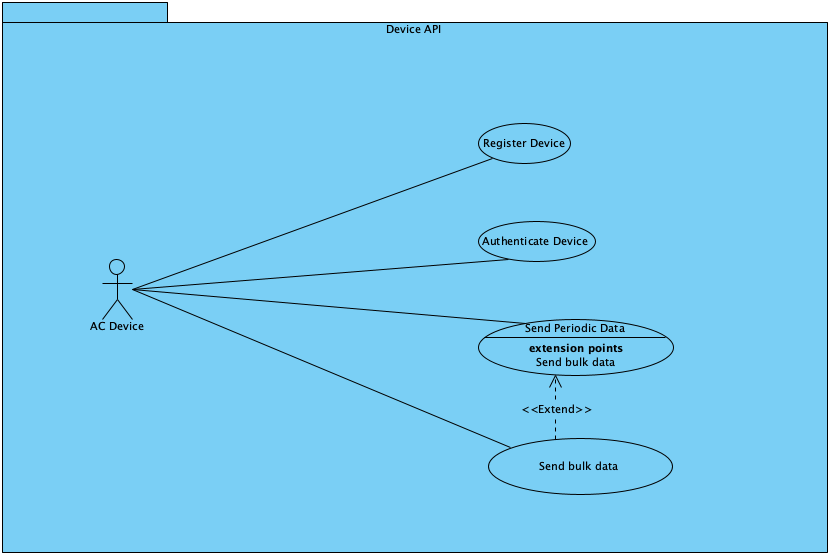
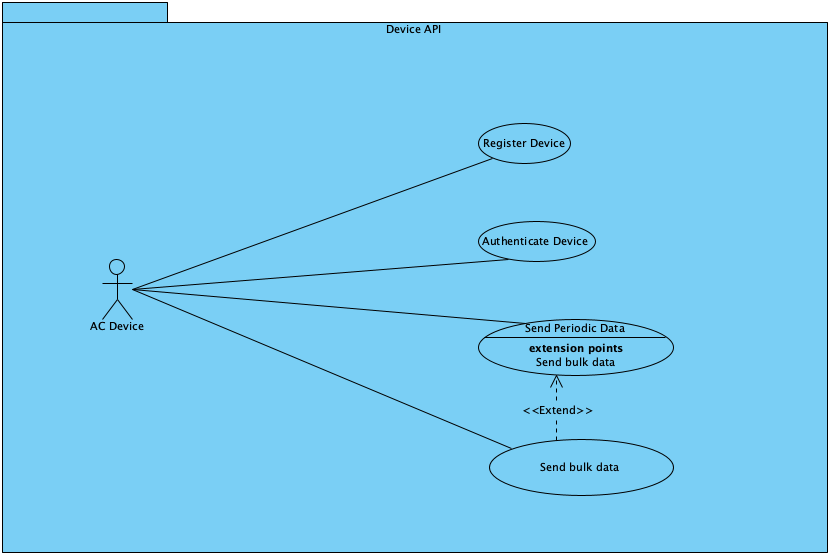
Updating docs and model with new information

diff --git a/design/content/UseCaseDiagram_H3cUJ_aGAqD2ZQj_.html b/design/content/UseCaseDiagram_H3cUJ_aGAqD2ZQj_.html
@@ -136,7 +136,7 @@
 <option value="shape|478.0|123.0|92.0|40.0|UseCase_a3uUJ_aGAqD2ZQkX.html|UseCase_a3uUJ_aGAqD2ZQkX.html|S3uUJ_aGAqD2ZQkW" id="optionS3uUJ_aGAqD2ZQkW">Register Device : Use Case</option>
 <option value="shape|478.0|221.0|117.0|40.0|UseCase_kpFUJ_aGAqD2ZQk2.html|UseCase_kpFUJ_aGAqD2ZQk2.html|EpFUJ_aGAqD2ZQk1" id="optionEpFUJ_aGAqD2ZQk1">Authenticate Device : Use Case</option>
 <option value="shape|478.0|319.0|195.0|56.0|UseCase_vdzUJ_aGAqD2ZQlL.html|UseCase_vdzUJ_aGAqD2ZQlL.html|PdzUJ_aGAqD2ZQlK" id="optionPdzUJ_aGAqD2ZQlK">Send Periodic Data : Use Case</option>
-<option value="shape|488.0|438.0|184.0|56.0|UseCase_b5HUJ_aGAqD2ZQld.html|UseCase_b5HUJ_aGAqD2ZQld.html|b5HUJ_aGAqD2ZQlc" id="optionb5HUJ_aGAqD2ZQlc">Send bulk data : Use Case</option>
+<option value="shape|489.0|439.0|184.0|56.0|UseCase_b5HUJ_aGAqD2ZQld.html|UseCase_b5HUJ_aGAqD2ZQld.html|b5HUJ_aGAqD2ZQlc" id="optionb5HUJ_aGAqD2ZQlc">Send bulk data : Use Case</option>
 </select>				</td>
 			</tr>
 		</table>
@@ -148,8 +148,8 @@
 <area imageId="diagram" coords="478.0, 155.55556, 132.0, 280.04233, 132.0, 295.4748, 499.22794, 163.0, 478.0, 163.0, 478.0, 155.55556" coords2="478.0, 155.55556, 132.0, 280.04233, 132.0, 295.4748, 499.22794, 163.0, 478.0, 163.0, 478.0, 155.55556" shape="poly" alt=":Association" id="areadiagram_map_OtZUJ_aGAqD2ZQkv_default" href="Association_AtZUJ_aGAqD2ZQko.html" onmouseover="hideReferenceIcon(),hideSubdiagramIcon(),hideTransitorIcon()" onmousedown="clearSpotLight();"/>
 <area imageId="diagram" coords="478.0, 254.96954, 132.0, 281.31473, 132.0, 281.31473, 132.0, 295.31473, 132.0, 295.31473, 517.0, 266.0, 517.0, 261.0, 478.0, 261.0, 478.0, 254.96954" coords2="478.0, 254.96954, 132.0, 281.31473, 132.0, 281.31473, 132.0, 295.31473, 132.0, 295.31473, 517.0, 266.0, 517.0, 261.0, 478.0, 261.0, 478.0, 254.96954" shape="poly" alt=":Association" id="areadiagram_map_mTfUJ_aGAqD2ZQmA_default" href="Association_STfUJ_aGAqD2ZQl7.html" onmouseover="hideReferenceIcon(),hideSubdiagramIcon(),hideTransitorIcon()" onmousedown="clearSpotLight();"/>
 <area imageId="diagram" coords="132.0, 282.74454, 132.0, 296.74454, 132.0, 296.74454, 478.0, 325.3674, 478.0, 325.3674, 478.0, 319.0, 534.0, 319.0, 534.0, 316.0, 132.0, 282.74454" coords2="132.0, 282.74454, 132.0, 296.74454, 132.0, 296.74454, 478.0, 325.3674, 478.0, 325.3674, 478.0, 319.0, 534.0, 319.0, 534.0, 316.0, 132.0, 282.74454" shape="poly" alt=":Association" id="areadiagram_map_BAA0J_aGAqD2ZQmI_default" href="Association_2AA0J_aGAqD2ZQmD.html" onmouseover="hideReferenceIcon(),hideSubdiagramIcon(),hideTransitorIcon()" onmousedown="clearSpotLight();"/>
-<area imageId="diagram" coords="132.0, 280.93436, 132.0, 296.0303, 132.0, 296.0303, 488.0, 445.26263, 488.0, 445.26263, 488.0, 438.0, 506.68674, 438.0, 132.0, 280.93436" coords2="132.0, 280.93436, 132.0, 296.0303, 132.0, 296.0303, 488.0, 445.26263, 488.0, 445.26263, 488.0, 438.0, 506.68674, 438.0, 132.0, 280.93436" shape="poly" alt=":Association" id="areadiagram_map_AIg0J_aGAqD2ZQmQ_default" href="Association_7wg0J_aGAqD2ZQmL.html" onmouseover="hideReferenceIcon(),hideSubdiagramIcon(),hideTransitorIcon()" onmousedown="clearSpotLight();"/>
-<area imageId="diagram" coords="548.0, 375.0, 548.0, 438.0, 562.0, 438.0, 562.0, 375.0" coords2="548.0, 375.0, 548.0, 438.0, 562.0, 438.0, 562.0, 375.0" shape="poly" alt=":Extend" id="areadiagram_map_ZUGaZ_aGAqD2ZQrE_default" href="Extend_BUGaZ_aGAqD2ZQrC.html" onmouseover="hideReferenceIcon(),hideSubdiagramIcon(),hideTransitorIcon()" onmousedown="clearSpotLight();"/>
+<area imageId="diagram" coords="132.0, 280.94458, 132.0, 296.04785, 489.0, 446.22165, 489.0, 446.22165, 489.0, 439.0, 507.73654, 439.0, 132.0, 280.94458" coords2="132.0, 280.94458, 132.0, 296.04785, 489.0, 446.22165, 489.0, 446.22165, 489.0, 439.0, 507.73654, 439.0, 132.0, 280.94458" shape="poly" alt=":Association" id="areadiagram_map_AIg0J_aGAqD2ZQmQ_default" href="Association_7wg0J_aGAqD2ZQmL.html" onmouseover="hideReferenceIcon(),hideSubdiagramIcon(),hideTransitorIcon()" onmousedown="clearSpotLight();"/>
+<area imageId="diagram" coords="549.0, 375.0, 549.0, 439.0, 563.0, 439.0, 563.0, 375.0" coords2="549.0, 375.0, 549.0, 439.0, 563.0, 439.0, 563.0, 375.0" shape="poly" alt=":Extend" id="areadiagram_map_ZUGaZ_aGAqD2ZQrE_default" href="Extend_BUGaZ_aGAqD2ZQrC.html" onmouseover="hideReferenceIcon(),hideSubdiagramIcon(),hideTransitorIcon()" onmousedown="clearSpotLight();"/>
 <area imageId="diagram" docContent="&amp;lt;head&amp;gt;
     
   &amp;lt;/head&amp;gt;
@@ -159,7 +159,14 @@
       connect to the device API. &amp;nbsp;Rather than 1 item in the call there could 
       be up to 500 (approx 8hours worth of data).
     &amp;lt;/p&amp;gt;
-  &amp;lt;/body&amp;gt;" coords="488, 438, 672, 494" coords2="488, 438, 672, 494" shape="rect" alt="Send bulk data:Use Case" id="areadiagram_map_b5HUJ_aGAqD2ZQlc_default" href="UseCase_b5HUJ_aGAqD2ZQld.html" onmouseover="hideReferenceIcon(),hideSubdiagramIcon(),hideTransitorIcon(),showTooltip(this)" onmousedown="clearSpotLight();" onmouseout="hideTooltip()"/>
+    &amp;lt;p style=&amp;quot;margin-bottom:.0001pt;margin-left:0pt;margin-top:0pt;margin-right:0pt;&amp;quot;&amp;gt;
+      &amp;nbsp;
+    &amp;lt;/p&amp;gt;
+    &amp;lt;p style=&amp;quot;margin-bottom:.0001pt;margin-left:0pt;margin-top:0pt;margin-right:0pt;&amp;quot;&amp;gt;
+      The array of data sent to for periodic updates will now include more 
+      than one entry
+    &amp;lt;/p&amp;gt;
+  &amp;lt;/body&amp;gt;" coords="489, 439, 673, 495" coords2="489, 439, 673, 495" shape="rect" alt="Send bulk data:Use Case" id="areadiagram_map_b5HUJ_aGAqD2ZQlc_default" href="UseCase_b5HUJ_aGAqD2ZQld.html" onmouseover="hideReferenceIcon(),hideSubdiagramIcon(),hideTransitorIcon(),showTooltip(this)" onmousedown="clearSpotLight();" onmouseout="hideTooltip()"/>
 <area imageId="diagram" docContent="&amp;lt;head&amp;gt;
     
   &amp;lt;/head&amp;gt;
@@ -167,6 +174,47 @@
     &amp;lt;p style=&amp;quot;margin-bottom:.0001pt;margin-left:0pt;margin-top:0pt;margin-right:0pt;&amp;quot;&amp;gt;
       The AC unit will make a HTTP call with the token it obtained from 
       authenticating.
+    &amp;lt;/p&amp;gt;
+    &amp;lt;p style=&amp;quot;margin-bottom:.0001pt;margin-left:0pt;margin-top:0pt;margin-right:0pt;&amp;quot;&amp;gt;
+      &amp;nbsp;
+    &amp;lt;/p&amp;gt;
+    &amp;lt;p style=&amp;quot;margin-bottom:.0001pt;margin-left:0pt;margin-top:0pt;margin-right:0pt;&amp;quot;&amp;gt;
+      The data contains the following
+    &amp;lt;/p&amp;gt;
+    &amp;lt;p style=&amp;quot;margin-bottom:.0001pt;margin-left:0pt;margin-top:0pt;margin-right:0pt;&amp;quot;&amp;gt;
+      &amp;nbsp;&amp;nbsp;- timestamp
+    &amp;lt;/p&amp;gt;
+    &amp;lt;p style=&amp;quot;margin-bottom:.0001pt;margin-left:0pt;margin-top:0pt;margin-right:0pt;&amp;quot;&amp;gt;
+      &amp;nbsp;&amp;nbsp;- temperature (celsius)
+    &amp;lt;/p&amp;gt;
+    &amp;lt;p style=&amp;quot;margin-bottom:.0001pt;margin-left:0pt;margin-top:0pt;margin-right:0pt;&amp;quot;&amp;gt;
+      &amp;nbsp;&amp;nbsp;- humidity
+    &amp;lt;/p&amp;gt;
+    &amp;lt;p style=&amp;quot;margin-bottom:.0001pt;margin-left:0pt;margin-top:0pt;margin-right:0pt;&amp;quot;&amp;gt;
+      &amp;nbsp;&amp;nbsp;- CO level
+    &amp;lt;/p&amp;gt;
+    &amp;lt;p style=&amp;quot;margin-bottom:.0001pt;margin-left:0pt;margin-top:0pt;margin-right:0pt;&amp;quot;&amp;gt;
+      &amp;nbsp;&amp;nbsp;- status
+    &amp;lt;/p&amp;gt;
+    &amp;lt;p style=&amp;quot;margin-bottom:.0001pt;margin-left:0pt;margin-top:0pt;margin-right:0pt;&amp;quot;&amp;gt;
+      &amp;nbsp;
+    &amp;lt;/p&amp;gt;
+    &amp;lt;p style=&amp;quot;margin-bottom:.0001pt;margin-left:0pt;margin-top:0pt;margin-right:0pt;&amp;quot;&amp;gt;
+      It was confirmed that the AC units have real time clocks hence the 
+      timestamp.
+    &amp;lt;/p&amp;gt;
+    &amp;lt;p style=&amp;quot;margin-bottom:.0001pt;margin-left:0pt;margin-top:0pt;margin-right:0pt;&amp;quot;&amp;gt;
+      &amp;nbsp;
+    &amp;lt;/p&amp;gt;
+    &amp;lt;p style=&amp;quot;margin-bottom:.0001pt;margin-left:0pt;margin-top:0pt;margin-right:0pt;&amp;quot;&amp;gt;
+      It's also expected that they will take a snapshot of data every 1 minute.
+    &amp;lt;/p&amp;gt;
+    &amp;lt;p style=&amp;quot;margin-bottom:.0001pt;margin-left:0pt;margin-top:0pt;margin-right:0pt;&amp;quot;&amp;gt;
+      &amp;nbsp;
+    &amp;lt;/p&amp;gt;
+    &amp;lt;p style=&amp;quot;margin-bottom:.0001pt;margin-left:0pt;margin-top:0pt;margin-right:0pt;&amp;quot;&amp;gt;
+      The data will be sent as an array of 1 element which then maintains 
+      consistency with the bulk upload
     &amp;lt;/p&amp;gt;
   &amp;lt;/body&amp;gt;" coords="478, 319, 673, 375" coords2="478, 319, 673, 375" shape="rect" alt="Send Periodic Data:Use Case" id="areadiagram_map_PdzUJ_aGAqD2ZQlK_default" href="UseCase_vdzUJ_aGAqD2ZQlL.html" onmouseover="hideReferenceIcon(),hideSubdiagramIcon(),hideTransitorIcon(),showTooltip(this)" onmousedown="clearSpotLight();" onmouseout="hideTooltip()"/>
 <area imageId="diagram" docContent="&amp;lt;head&amp;gt;
@@ -359,6 +407,47 @@
       The AC unit will make a HTTP call with the token it obtained from 
       authenticating.
     </p>
+    <p style="margin-bottom:.0001pt;margin-left:0pt;margin-top:0pt;margin-right:0pt;">
+      &nbsp;
+    </p>
+    <p style="margin-bottom:.0001pt;margin-left:0pt;margin-top:0pt;margin-right:0pt;">
+      The data contains the following
+    </p>
+    <p style="margin-bottom:.0001pt;margin-left:0pt;margin-top:0pt;margin-right:0pt;">
+      &nbsp;&nbsp;- timestamp
+    </p>
+    <p style="margin-bottom:.0001pt;margin-left:0pt;margin-top:0pt;margin-right:0pt;">
+      &nbsp;&nbsp;- temperature (celsius)
+    </p>
+    <p style="margin-bottom:.0001pt;margin-left:0pt;margin-top:0pt;margin-right:0pt;">
+      &nbsp;&nbsp;- humidity
+    </p>
+    <p style="margin-bottom:.0001pt;margin-left:0pt;margin-top:0pt;margin-right:0pt;">
+      &nbsp;&nbsp;- CO level
+    </p>
+    <p style="margin-bottom:.0001pt;margin-left:0pt;margin-top:0pt;margin-right:0pt;">
+      &nbsp;&nbsp;- status
+    </p>
+    <p style="margin-bottom:.0001pt;margin-left:0pt;margin-top:0pt;margin-right:0pt;">
+      &nbsp;
+    </p>
+    <p style="margin-bottom:.0001pt;margin-left:0pt;margin-top:0pt;margin-right:0pt;">
+      It was confirmed that the AC units have real time clocks hence the 
+      timestamp.
+    </p>
+    <p style="margin-bottom:.0001pt;margin-left:0pt;margin-top:0pt;margin-right:0pt;">
+      &nbsp;
+    </p>
+    <p style="margin-bottom:.0001pt;margin-left:0pt;margin-top:0pt;margin-right:0pt;">
+      It's also expected that they will take a snapshot of data every 1 minute.
+    </p>
+    <p style="margin-bottom:.0001pt;margin-left:0pt;margin-top:0pt;margin-right:0pt;">
+      &nbsp;
+    </p>
+    <p style="margin-bottom:.0001pt;margin-left:0pt;margin-top:0pt;margin-right:0pt;">
+      The data will be sent as an array of 1 element which then maintains 
+      consistency with the bulk upload
+    </p>
   </body></span>			</td>
 		</tr>
 		<tr class="TableRow2">
@@ -381,6 +470,13 @@
       Bulk data is simply accumulated from when the AC unit was unable to 
       connect to the device API. &nbsp;Rather than 1 item in the call there could 
       be up to 500 (approx 8hours worth of data).
+    </p>
+    <p style="margin-bottom:.0001pt;margin-left:0pt;margin-top:0pt;margin-right:0pt;">
+      &nbsp;
+    </p>
+    <p style="margin-bottom:.0001pt;margin-left:0pt;margin-top:0pt;margin-right:0pt;">
+      The array of data sent to for periodic updates will now include more 
+      than one entry
     </p>
   </body></span>			</td>
 		</tr>

diff --git a/design/content/Package_iGB0J_aGAqD2ZQnI.html b/design/content/Package_iGB0J_aGAqD2ZQnI.html
@@ -275,6 +275,47 @@ Children			</td>
       The AC unit will make a HTTP call with the token it obtained from 
       authenticating.
     </p>
+    <p style="margin-bottom:.0001pt;margin-left:0pt;margin-top:0pt;margin-right:0pt;">
+      &nbsp;
+    </p>
+    <p style="margin-bottom:.0001pt;margin-left:0pt;margin-top:0pt;margin-right:0pt;">
+      The data contains the following
+    </p>
+    <p style="margin-bottom:.0001pt;margin-left:0pt;margin-top:0pt;margin-right:0pt;">
+      &nbsp;&nbsp;- timestamp
+    </p>
+    <p style="margin-bottom:.0001pt;margin-left:0pt;margin-top:0pt;margin-right:0pt;">
+      &nbsp;&nbsp;- temperature (celsius)
+    </p>
+    <p style="margin-bottom:.0001pt;margin-left:0pt;margin-top:0pt;margin-right:0pt;">
+      &nbsp;&nbsp;- humidity
+    </p>
+    <p style="margin-bottom:.0001pt;margin-left:0pt;margin-top:0pt;margin-right:0pt;">
+      &nbsp;&nbsp;- CO level
+    </p>
+    <p style="margin-bottom:.0001pt;margin-left:0pt;margin-top:0pt;margin-right:0pt;">
+      &nbsp;&nbsp;- status
+    </p>
+    <p style="margin-bottom:.0001pt;margin-left:0pt;margin-top:0pt;margin-right:0pt;">
+      &nbsp;
+    </p>
+    <p style="margin-bottom:.0001pt;margin-left:0pt;margin-top:0pt;margin-right:0pt;">
+      It was confirmed that the AC units have real time clocks hence the 
+      timestamp.
+    </p>
+    <p style="margin-bottom:.0001pt;margin-left:0pt;margin-top:0pt;margin-right:0pt;">
+      &nbsp;
+    </p>
+    <p style="margin-bottom:.0001pt;margin-left:0pt;margin-top:0pt;margin-right:0pt;">
+      It's also expected that they will take a snapshot of data every 1 minute.
+    </p>
+    <p style="margin-bottom:.0001pt;margin-left:0pt;margin-top:0pt;margin-right:0pt;">
+      &nbsp;
+    </p>
+    <p style="margin-bottom:.0001pt;margin-left:0pt;margin-top:0pt;margin-right:0pt;">
+      The data will be sent as an array of 1 element which then maintains 
+      consistency with the bulk upload
+    </p>
   </body></span>			</td>
 		</tr>
 		<tr class="TableRow1">
@@ -297,6 +338,13 @@ Children			</td>
       Bulk data is simply accumulated from when the AC unit was unable to 
       connect to the device API. &nbsp;Rather than 1 item in the call there could 
       be up to 500 (approx 8hours worth of data).
+    </p>
+    <p style="margin-bottom:.0001pt;margin-left:0pt;margin-top:0pt;margin-right:0pt;">
+      &nbsp;
+    </p>
+    <p style="margin-bottom:.0001pt;margin-left:0pt;margin-top:0pt;margin-right:0pt;">
+      The array of data sent to for periodic updates will now include more 
+      than one entry
     </p>
   </body></span>			</td>
 		</tr>

diff --git a/design/content/UseCase_vdzUJ_aGAqD2ZQlL.html b/design/content/UseCase_vdzUJ_aGAqD2ZQlL.html
@@ -106,6 +106,47 @@ Properties			</td>
       The AC unit will make a HTTP call with the token it obtained from 
       authenticating.
     </p>
+    <p style="margin-bottom:.0001pt;margin-left:0pt;margin-top:0pt;margin-right:0pt;">
+      &nbsp;
+    </p>
+    <p style="margin-bottom:.0001pt;margin-left:0pt;margin-top:0pt;margin-right:0pt;">
+      The data contains the following
+    </p>
+    <p style="margin-bottom:.0001pt;margin-left:0pt;margin-top:0pt;margin-right:0pt;">
+      &nbsp;&nbsp;- timestamp
+    </p>
+    <p style="margin-bottom:.0001pt;margin-left:0pt;margin-top:0pt;margin-right:0pt;">
+      &nbsp;&nbsp;- temperature (celsius)
+    </p>
+    <p style="margin-bottom:.0001pt;margin-left:0pt;margin-top:0pt;margin-right:0pt;">
+      &nbsp;&nbsp;- humidity
+    </p>
+    <p style="margin-bottom:.0001pt;margin-left:0pt;margin-top:0pt;margin-right:0pt;">
+      &nbsp;&nbsp;- CO level
+    </p>
+    <p style="margin-bottom:.0001pt;margin-left:0pt;margin-top:0pt;margin-right:0pt;">
+      &nbsp;&nbsp;- status
+    </p>
+    <p style="margin-bottom:.0001pt;margin-left:0pt;margin-top:0pt;margin-right:0pt;">
+      &nbsp;
+    </p>
+    <p style="margin-bottom:.0001pt;margin-left:0pt;margin-top:0pt;margin-right:0pt;">
+      It was confirmed that the AC units have real time clocks hence the 
+      timestamp.
+    </p>
+    <p style="margin-bottom:.0001pt;margin-left:0pt;margin-top:0pt;margin-right:0pt;">
+      &nbsp;
+    </p>
+    <p style="margin-bottom:.0001pt;margin-left:0pt;margin-top:0pt;margin-right:0pt;">
+      It's also expected that they will take a snapshot of data every 1 minute.
+    </p>
+    <p style="margin-bottom:.0001pt;margin-left:0pt;margin-top:0pt;margin-right:0pt;">
+      &nbsp;
+    </p>
+    <p style="margin-bottom:.0001pt;margin-left:0pt;margin-top:0pt;margin-right:0pt;">
+      The data will be sent as an array of 1 element which then maintains 
+      consistency with the bulk upload
+    </p>
   </body></span>			</td>
 		</tr>
 		<tr class="TableRow2">

diff --git a/design/content/UseCase_b5HUJ_aGAqD2ZQld.html b/design/content/UseCase_b5HUJ_aGAqD2ZQld.html
@@ -107,6 +107,13 @@ Properties			</td>
       connect to the device API. &nbsp;Rather than 1 item in the call there could 
       be up to 500 (approx 8hours worth of data).
     </p>
+    <p style="margin-bottom:.0001pt;margin-left:0pt;margin-top:0pt;margin-right:0pt;">
+      &nbsp;
+    </p>
+    <p style="margin-bottom:.0001pt;margin-left:0pt;margin-top:0pt;margin-right:0pt;">
+      The array of data sent to for periodic updates will now include more 
+      than one entry
+    </p>
   </body></span>			</td>
 		</tr>
 		<tr class="TableRow2">

diff --git a/README.md b/README.md
@@ -3,21 +3,65 @@
 Theorem prototype exercise
 
 
+## Content
+
+This repo contains the following
+
+* This README.md - detailing design activities and top-level information
+* adminInterface - code and documentation for the admin web interface
+* design - design diagrams generated from Visual Paradigm
+* deviceApi - code and documentation for the device API service
+* experiments - code or other experiments to investigate ideas
+ 
+
+## Assumptions
+
+* The AC device only supports HTTP not SSL as this would be too complicated
+* The AC allows configuration of registration URL, data URL, and registration token
+* The web interface will use a hard-coded username/password for demonstration
+
+
+## Decisions
+
+### Using Ruby for the REST API
+
+Since this is familar and provides support for REST APIs and many other things.
+Need to consider event machine at some point for scalability but probably not
+for the POC since there shouldn't be any significant load on the apps.
+
+### Using node.js for the admin interface
+
+There is support for pug (aka JADE) templates that support the rapid 
+development of pages using Bootstrap code.
+
+### Using Docker for deployment
+
+Docker containers allow deployment of the application using 
+docker-compose or even Kubernetes and also isolate the services.
+
+
 ## Questions
 
 ### Is the device strictly push (HTTP client) only?
 
-This seems to be the case 
+This seems to be the case.  There is also no suggestion that HTTPS is supported 
+and in fact this may be too cumbersome so a HTTP-only approach with some 
+mechanism such as HMAC or is being assumed
 
 
 ### Are there any requirements on how the device authenticates with the API
 
-Does the AC device provide a way to enter URL and username/password?  What other details can be entered?  Secure keys?
+Does the AC device provide a way to enter URL and username/password?  
+What other details can be entered?  Secure keys?
+
+It seems that a predefined token is allow
 
 
 ### Is the device using HTTP or HTTPS
 
 Or for the sake of the POC are we simply looking at HTTP?
+Making the assumption that only HTTP is supported and needs some HMAC or
+similar mechanism
 
 
 ### Does the admin interface need to support other auth mechanisms?
@@ -32,22 +76,33 @@ For example, logging in/out, password recovery, inviting users, could be
 provided by 3rd party frameworks and they don't impact on the AC device 
 functionality nor show that integration.
 
+Using hard-coded username/password for the demo version of the web app
+
 
 ### How long does data need to be retained for?
 
-The display requirements seem to be for the past year, does the data need to be retained past that point?
+The display requirements seem to be for the past year, does the data need to be 
+retained past that point?
 
 
-
-## Potential issues
-
-### Monolith or microservices
+### Monolith or micro service architecture
 
 If this is split into two apps then there needs to be some sync between storing 
 data for the device API and then displaying it with the web app.
 
-That might present a scalability issue as well as how to share storage
+That might present a scalability issue as well as how to share storage.
 
+Created a card to look at storage.  Also split the application into two 
+micro services as this was natural and practical.
+
+
+### Admin interface UX/look and feel
+
+This can be simplified but functional.  There is no requirement for 
+perfectly finished pages so long as they don't look too ugly - clear and 
+concise is fine.
+
+### Do the AC devices support 
 
 
 
